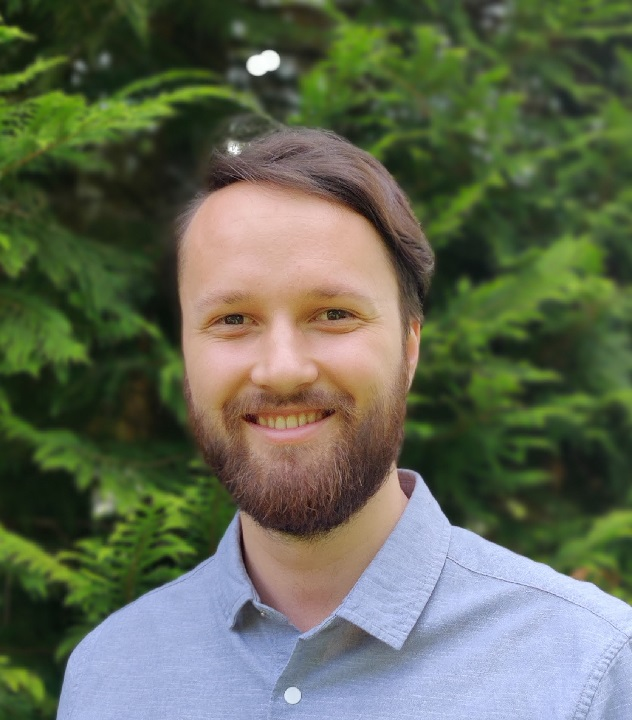
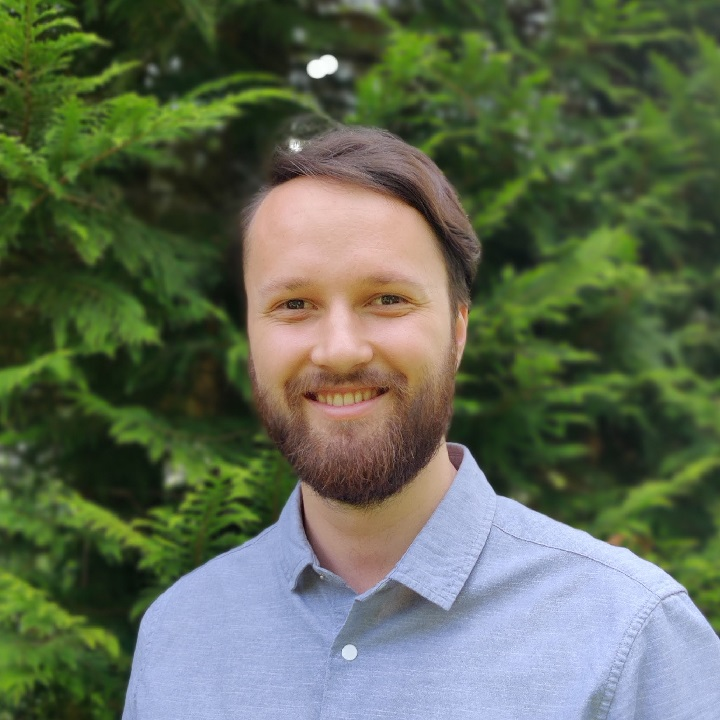
added cv cropped application photo

diff --git a/lib/screens/cv/cv.dart b/lib/screens/cv/cv.dart
@@ -1,0 +1,210 @@
+import 'dart:convert';
+
+import 'package:flutter/material.dart';
+import 'package:flutter/services.dart';
+import 'package:intl/intl.dart';
+import 'package:url_launcher/url_launcher.dart';
+
+class Person {
+  final String photo;
+
+  final String firstName;
+  final String lastName;
+  final List<String> address;
+  final DateTime birthdate;
+  final String nationality;
+  final String phoneNumber;
+  final String mailAdress;
+
+  Person(this.photo, this.firstName, this.lastName, this.address,
+      this.birthdate, this.nationality, this.phoneNumber, this.mailAdress);
+
+  String get fullName {
+    return '${this.firstName} ${this.lastName}';
+  }
+
+  static fromJson(json) {
+    return Person(
+        json["photo"],
+        json["firstName"],
+        json["lastName"],
+        List<String>.from(json["address"]),
+        DateTime.parse(json["birthdate"]),
+        json["nationality"],
+        json["phoneNumber"],
+        json["mailAdress"]);
+  }
+
+  toString() {
+    return "name: " + this.fullName + ", address: " + address.join(',');
+  }
+}
+
+class CV {
+  final Person person;
+  final List<dynamic> workExperience;
+  final List<dynamic> education;
+  final List<dynamic> skills;
+  final List<dynamic> languages;
+  final List<dynamic> hobbies;
+
+  CV(this.person, this.workExperience, this.education, this.skills,
+      this.languages, this.hobbies);
+
+  static fromJson(json) {
+    final person = Person.fromJson(json['person']);
+    final workExperience = json['workExperience'];
+    final education = json['education'];
+    final skills = json['skills'];
+    final languages = json['languages'];
+    final hobbies = json['hobbies'];
+    // List<Map<String, String>>.from(json['workExperience']);
+
+    return CV(person, workExperience, education, skills, languages, hobbies);
+  }
+
+  toString() {
+    return "person: " + this.person.toString();
+  }
+}
+
+class CVScreenWidget extends StatelessWidget {
+  Future<CV> fetch(String dataFile) async {
+    String data = await rootBundle.loadString(dataFile);
+    final jsonResult = json.decode(data);
+
+    return CV.fromJson(jsonResult);
+  }
+
+  @override
+  Widget build(BuildContext context) {
+    return Scaffold(
+      appBar: AppBar(
+        title: Text(
+          'Lebenslauf',
+        ),
+      ),
+      body: FutureBuilder(
+        future: fetch("cv-data.json"),
+        builder: (BuildContext context, AsyncSnapshot<CV> snapshot) {
+          if (snapshot.hasData) {
+            return CVWidget(snapshot.data!);
+          } else if (snapshot.hasError)
+            throw snapshot.error!;
+          else
+            return CircularProgressIndicator();
+        },
+      ),
+    );
+  }
+}
+
+class CVWidget extends StatelessWidget {
+  final CV cv;
+
+  CVWidget(this.cv);
+
+  @override
+  Widget build(BuildContext context) {
+    return ListView(
+      children: [
+        Column(
+          children: [
+            Container(
+                constraints: BoxConstraints(maxHeight: 720),
+                child: Image.asset(
+                  this.cv.person.photo,
+                  fit: BoxFit.fitHeight,
+                )),
+            Text(this.cv.person.fullName),
+            Text(DateFormat('dd. MMMM yyyy').format(this.cv.person.birthdate)),
+            Text(this.cv.person.nationality),
+            Text(this.cv.person.address.join(', ')),
+            Text(this.cv.person.phoneNumber),
+            InkWell(
+              child: Text(this.cv.person.mailAdress,
+                  style: TextStyle(
+                      decoration: TextDecoration.underline,
+                      color: Colors.blue)),
+              onTap: () => launch('mailto:${this.cv.person.mailAdress}'),
+            ),
+          ],
+        ),
+        Column(
+          children: [
+            Text("Berufserfahrung"),
+            ListView.builder(
+              shrinkWrap: true,
+              itemCount: this.cv.workExperience.length,
+              itemBuilder: (BuildContext context, int index) => Row(
+                children: [
+                  Text(this.cv.workExperience[index]["dateRange"]),
+                  Text(this.cv.workExperience[index]["company"]),
+                ],
+              ),
+            ),
+          ],
+        ),
+        Column(
+          children: [
+            Text("Ausbildung"),
+            ListView.builder(
+              shrinkWrap: true,
+              itemCount: this.cv.education.length,
+              itemBuilder: (BuildContext context, int index) => Row(
+                children: [
+                  Text(this.cv.education[index]["dateRange"]),
+                  Text(this.cv.education[index]["school"]),
+                ],
+              ),
+            ),
+          ],
+        ),
+        Column(
+          children: [
+            Text("Kenntnisse"),
+            ListView.builder(
+              shrinkWrap: true,
+              itemCount: this.cv.skills.length,
+              itemBuilder: (BuildContext context, int index) => Row(
+                children: [
+                  Text(this.cv.skills[index]["level"]),
+                  Text(this.cv.skills[index]["skill"]),
+                ],
+              ),
+            ),
+          ],
+        ),
+        Column(
+          children: [
+            Text("Sprachen"),
+            ListView.builder(
+              shrinkWrap: true,
+              itemCount: this.cv.languages.length,
+              itemBuilder: (BuildContext context, int index) => Row(
+                children: [
+                  Text(this.cv.languages[index]["level"]),
+                  Text(this.cv.languages[index]["language"]),
+                ],
+              ),
+            ),
+          ],
+        ),
+        Column(
+          children: [
+            Text("Interessen"),
+            ListView.builder(
+              shrinkWrap: true,
+              itemCount: this.cv.hobbies.length,
+              itemBuilder: (BuildContext context, int index) => Row(
+                children: [
+                  Text(this.cv.hobbies[index]),
+                ],
+              ),
+            ),
+          ],
+        ),
+      ],
+    );
+  }
+}
